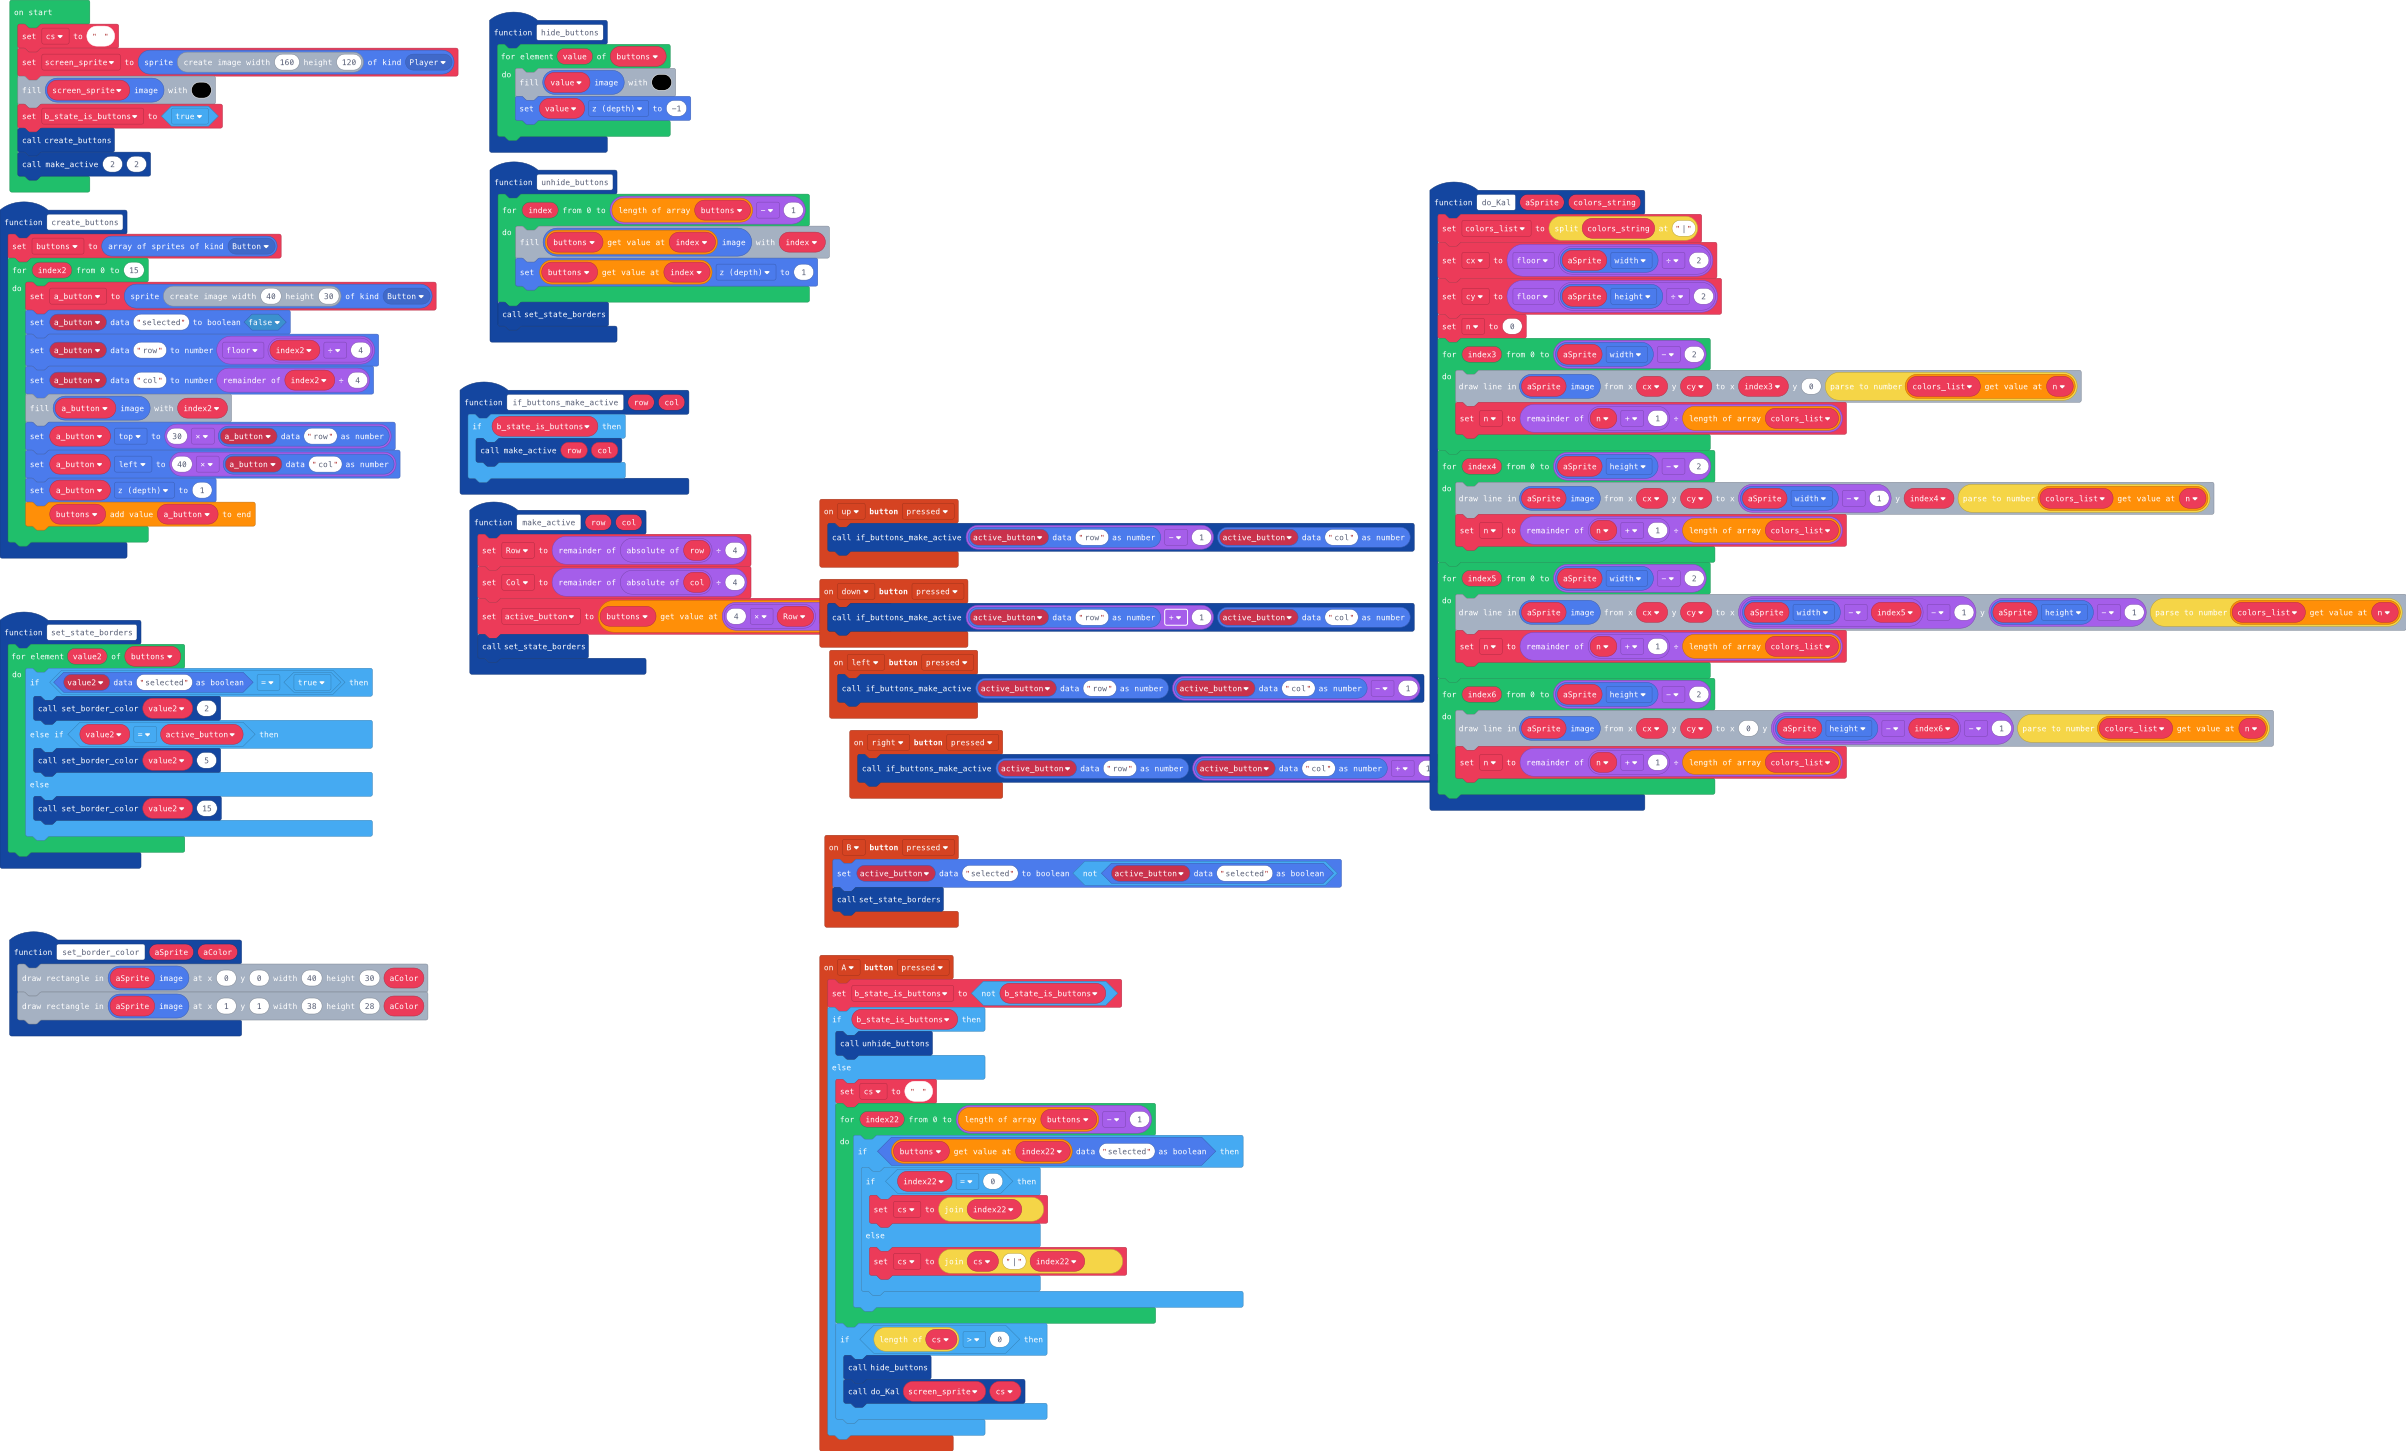
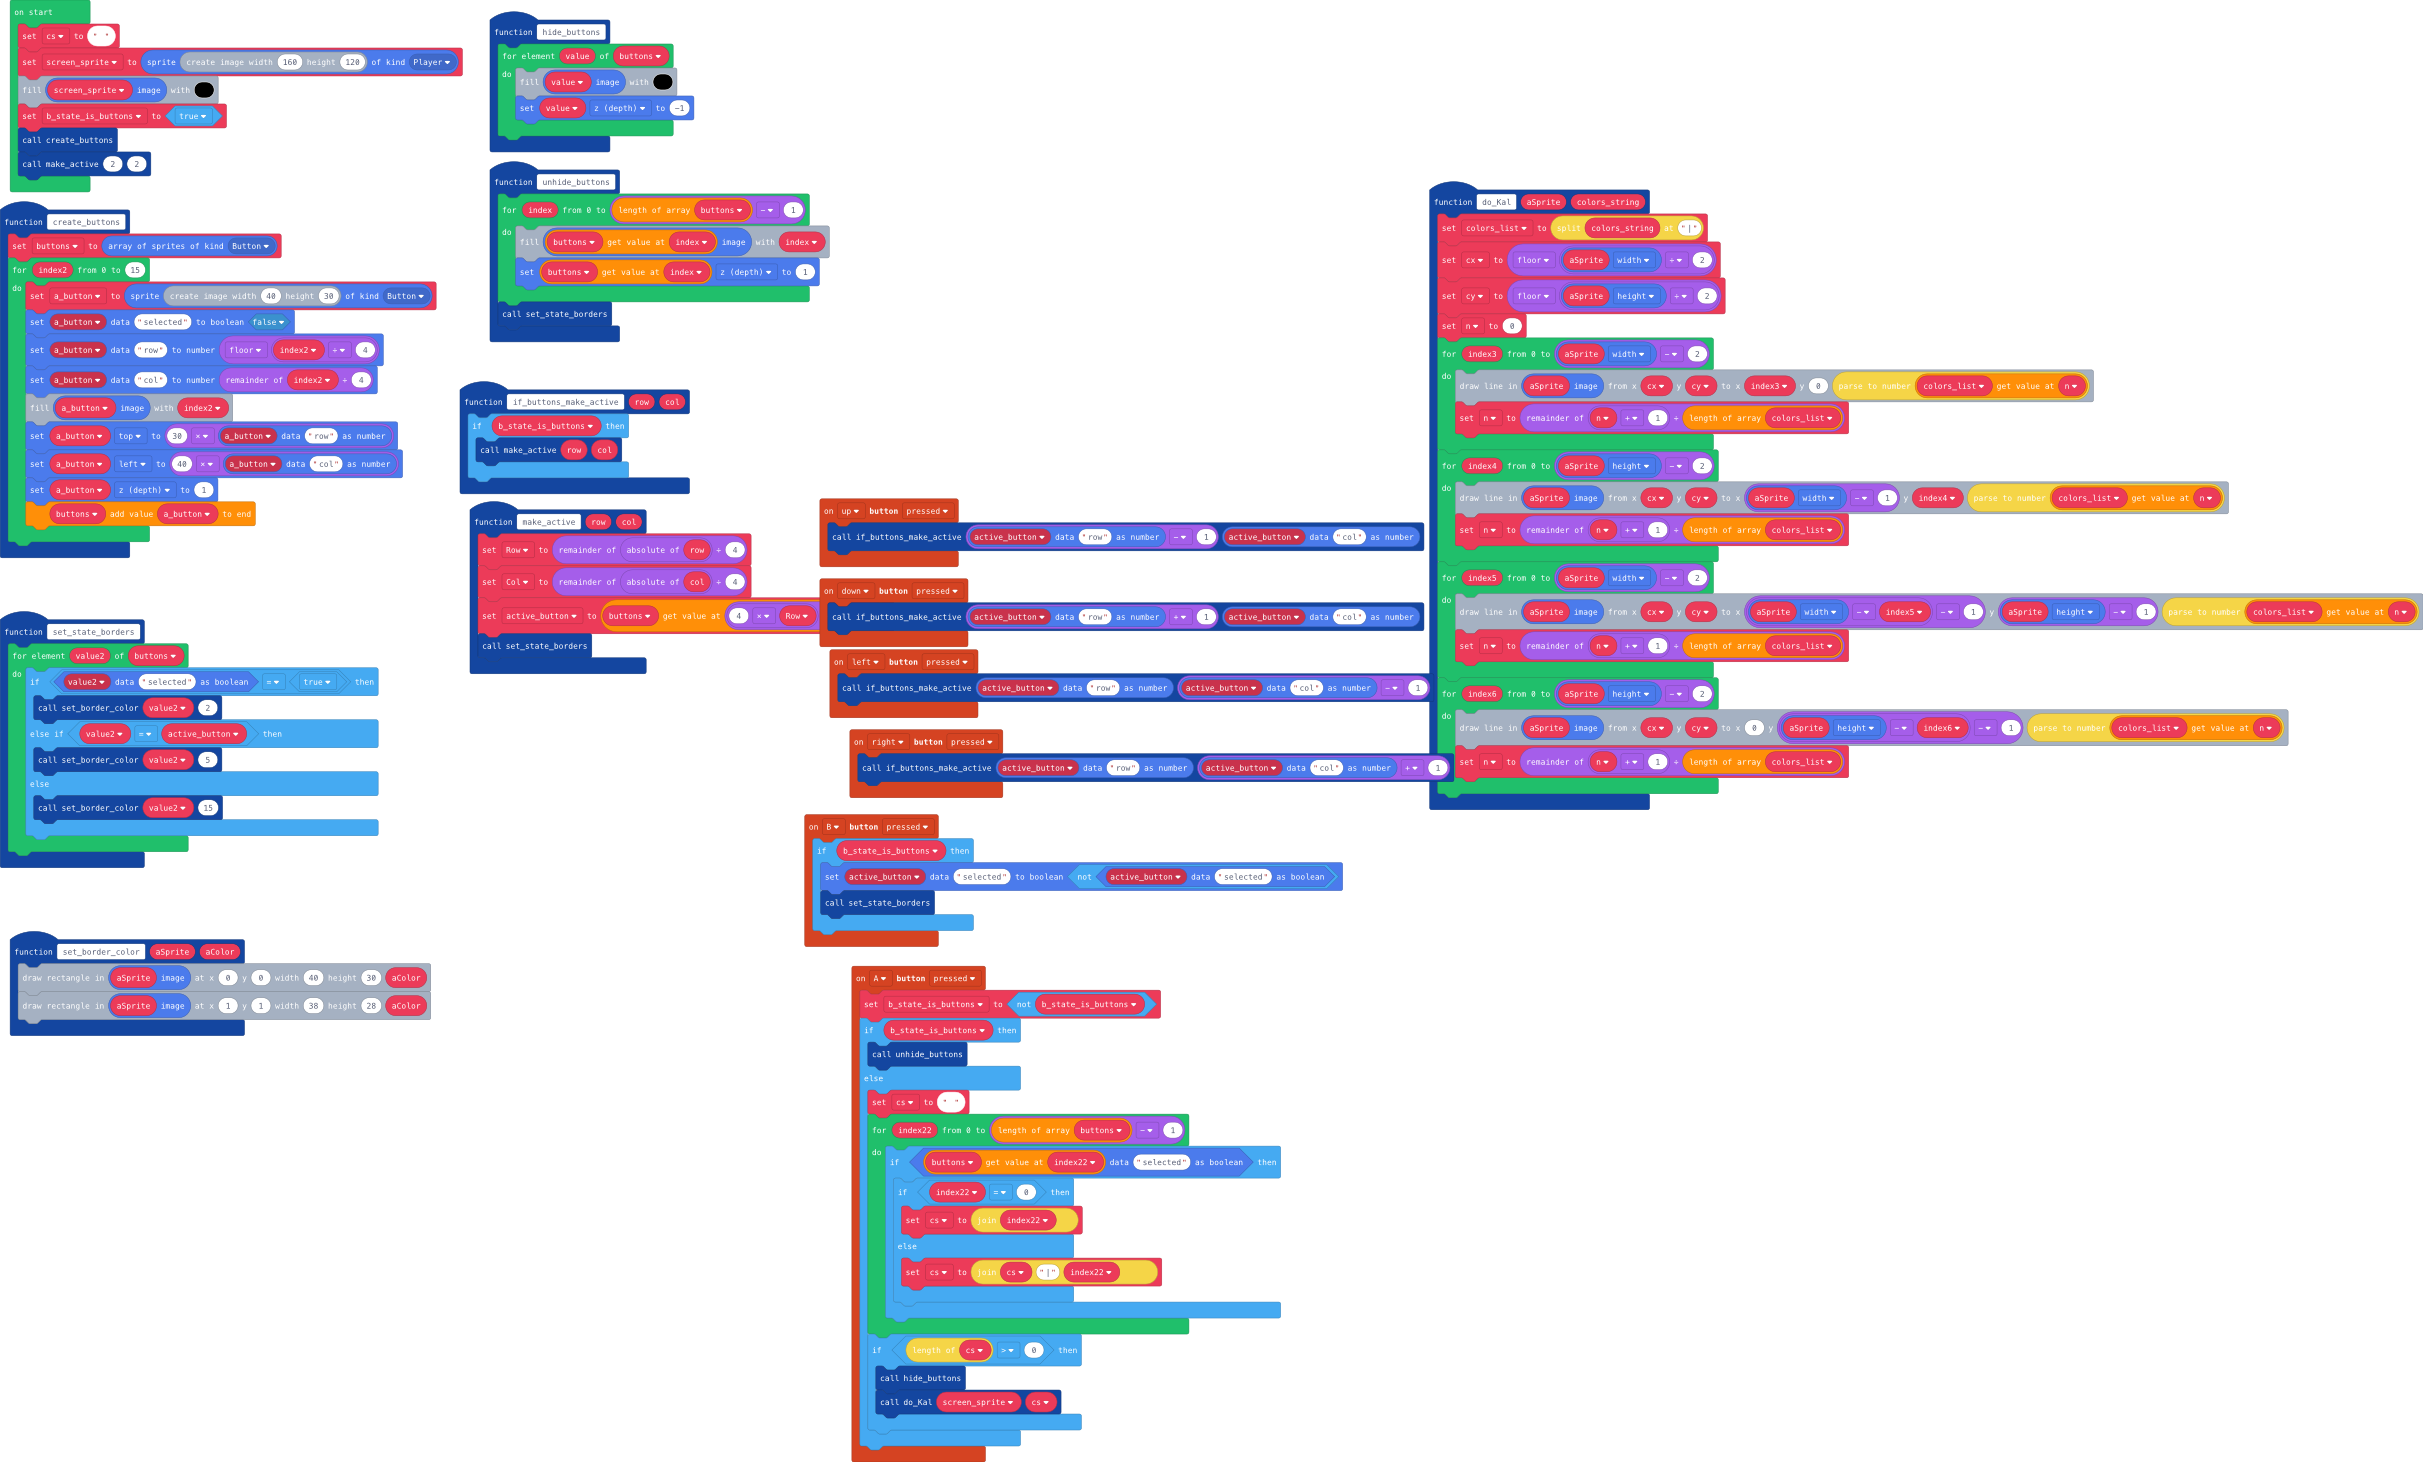
Update pxt.json, main.blocks, main.ts

Changed region(s): [[0.0, 0.0, 1.0, 1.0]]

diff --git a/main.ts b/main.ts
@@ -8,11 +8,6 @@ function unhide_buttons () {
     }
     set_state_borders()
 }
-function if_buttons_make_active (row: number, col: number) {
-    if (b_state_is_buttons) {
-        make_active(row, col)
-    }
-}
 function create_buttons () {
     buttons = sprites.allOfKind(SpriteKind.Button)
     for (let index2 = 0; index2 <= 15; index2++) {
@@ -40,9 +35,16 @@ controller.down.onEvent(ControllerButtonEvent.Pressed, function () {
     if_buttons_make_active(sprites.readDataNumber(active_button, "row") + 1, sprites.readDataNumber(active_button, "col"))
 })
 controller.B.onEvent(ControllerButtonEvent.Pressed, function () {
-    sprites.setDataBoolean(active_button, "selected", !(sprites.readDataBoolean(active_button, "selected")))
-    set_state_borders()
+    if (b_state_is_buttons) {
+        sprites.setDataBoolean(active_button, "selected", !(sprites.readDataBoolean(active_button, "selected")))
+        set_state_borders()
+    }
 })
+function if_buttons_make_active (row: number, col: number) {
+    if (b_state_is_buttons) {
+        make_active(row, col)
+    }
+}
 function make_active (row: number, col: number) {
     Row = Math.abs(row) % 4
     Col = Math.abs(col) % 4
